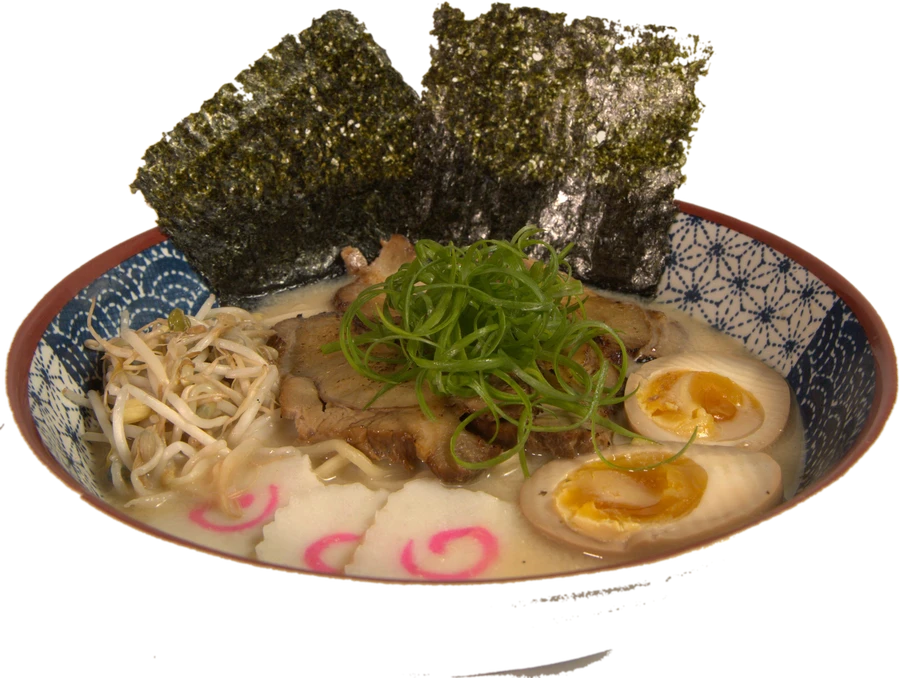
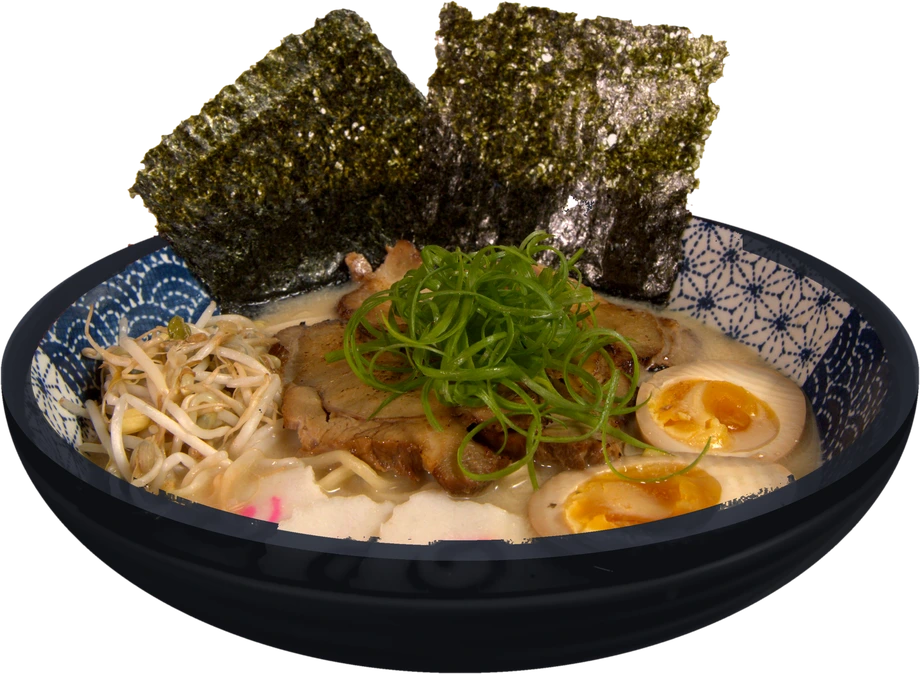
fix: high-contrast dark ceramic bowl cutout for Misso Lamen in Hero and Anatomy

diff --git a/index.html b/index.html
@@ -20,7 +20,7 @@
   <meta property="og:image" content="https://domburiya.com.br/og-image.jpg" />
 
   <!-- Preload Principal Cutout Bowl -->
-  <link rel="preload" as="image" href="/assets/ambiente/bowl-lamen-cutout.webp" type="image/webp" fetchpriority="high" />
+  <link rel="preload" as="image" href="/assets/ambiente/bowl-lamen-cutout.webp?v=4" type="image/webp" fetchpriority="high" />
 
   <!-- Google Fonts: Montserrat (400..900 + Itálicos) + Shantell Sans & Caveat (Rabisco Legível) -->
   <link rel="preconnect" href="https://fonts.googleapis.com" />
@@ -127,7 +127,7 @@
 
           <figure class="floating-bowl-wrap">
             <img
-              src="/assets/ambiente/bowl-lamen-cutout.webp?v=3"
+              src="/assets/ambiente/bowl-lamen-cutout.webp?v=4"
               alt="Missô Lámen Domburiya"
               width="676"
               height="510"
@@ -225,7 +225,7 @@
           <div class="anatomy-centerpiece">
             <div class="anatomy-plate-ring">
               <img
-                src="/assets/ambiente/bowl-lamen-cutout.webp?v=3"
+                src="/assets/ambiente/bowl-lamen-cutout.webp?v=4"
                 alt="Detalhe do prato Domburiya"
                 width="520"
                 height="520"

diff --git a/main.js b/main.js
@@ -14,7 +14,7 @@
    ========================================================================== */
 const ANATOMY_DATA = {
   lamen: {
-    img: '/assets/ambiente/bowl-lamen-cutout.webp?v=3',
+    img: '/assets/ambiente/bowl-lamen-cutout.webp?v=4',
     isCutout: true,
     price: 'R$ 54,00',
     c1Title: 'Caldo Tonkotsu & Missô',
